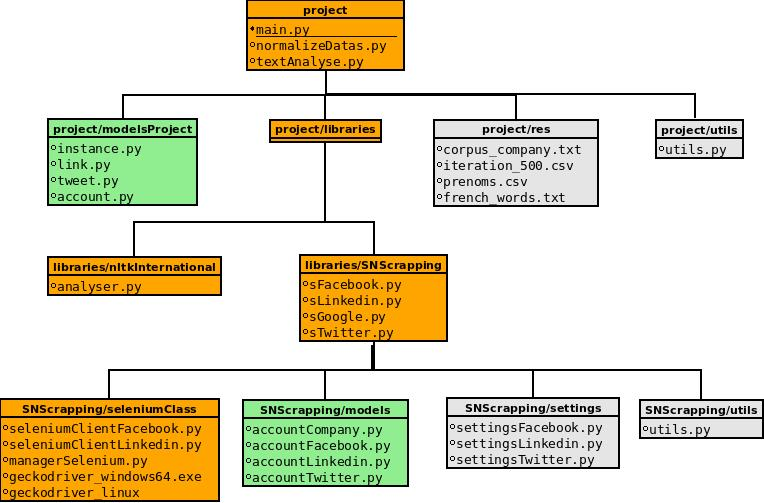
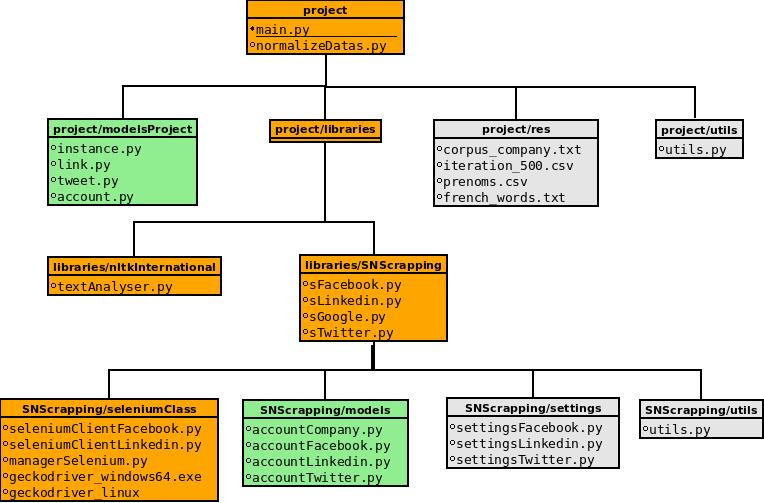
mv de textanalyser dans nltkInternational + images changement

Changed region(s): [[0.1505, 0.0895, 0.9031, 0.2087], [0.0602, 0.5368, 0.2408, 0.5964], [0.2709, 0.8052, 0.301, 1.0]]

diff --git a/project/main.py b/project/main.py
@@ -15,7 +15,7 @@ from libraries import sLinkedin
 from libraries import sFacebook
 from libraries.SNScrapping.seleniumClass.managerSelenium import *
 from libraries.SNScrapping.models.accountLinkedin import *
-from textAnalyser import *
+from libraries.nltkInternational import textAnalyser
 from utils.utils import *
 
 """ Search for people and indeterminate tweets """
@@ -110,6 +110,7 @@ def instanceToCsv(analyser, inst, minCompany=0,minFacebook=0, minLinkedinWithout
 	if inst.tweet.typeAuthor=="COMPANY":
 		return instanceToCsvCompany(inst, minCompany)
 
+""" method to save the result """
 def instanceToCsvPerson(analyser, inst, minCompany,minFacebook, minLinkedinWithoutPair, minLinkedinWithPair, minMatchFacebookLinkedin):
 	rows = []
 
@@ -178,8 +179,7 @@ def instanceToCsvPerson(analyser, inst, minCompany,minFacebook, minLinkedinWitho
 
 	return rows
 
-
-
+""" method to save the result """
 def formLine(inst, accountUrl, accountUrl2, companyPos, companyName, companyDomain, companyUrl, accountsLinkedValue, companyValue):
 	tid = inst.tweet.tweet_id
 	uid = inst.tweet.user_id
@@ -193,7 +193,7 @@ def formLine(inst, accountUrl, accountUrl2, companyPos, companyName, companyDoma
 	return (tid, uid, pert, tauth, e(name), e(screename), e(text), e(location), e(desc), 
 		accountUrl, accountUrl2, e(companyPos), e(companyName), e(companyDomain), companyUrl, accountsLinkedValue, companyValue)
 
-
+""" method to save the result """
 def instanceToCsvCompany(inst, minCompany):
 	rows = []
 	"""print Facebook company accounts with a minimum value of matching with the tweet	"""
@@ -208,7 +208,7 @@ def instanceToCsvCompany(inst, minCompany):
 
 	return rows
 
-""" method of step 5: show only pertinent datas """
+""" show result in company list in a specified instance """
 def show_result_company(inst, minCompany=0):
 
 	"""print Facebook company accounts with a minimum value of matching with the tweet	"""
@@ -223,7 +223,7 @@ def show_result_company(inst, minCompany=0):
 		if val.valueT >= minCompany:
 			print(val.account.toJson()+"[valueT]"+str(val.valueT))
 
-""" method of step 5: show only pertinent datas """
+""" show result in person list in a specified instance  """
 def show_result_person(inst, minFacebook=0, minLinkedinWithoutPair = 0, minLinkedinWithPair = 0, minMatchFacebookLinkedin = 0):
 	#Name person
 	print("["+inst.tweet.userFirstname +" "+inst.tweet.userSurname+"]")
@@ -438,7 +438,6 @@ def searchPersonLinkedin(tweet, inst, searcher, analyser):
 			inst.addAccountLinkedinPerson(tLink.link, account, valueT=value)
 		except ValueError as e:
 			print(str(e))
-	
 
 """ method of step 3+4 : matching account/facebook and return a value with the degree of matching"""
 def matchCompteFacebookPersonTweet(tweet, account, analyser):
@@ -527,7 +526,7 @@ if __name__ == '__main__':
 	#searcherFacebook = sFacebook.SearcherFacebook_Selenium(managerFacebook)
 
 	""" Instanciate corpus syntaxical matching class """
-	analyser = TextAnalyser()
+	analyser = textAnalyser.TextAnalyser()
 
 	instances = []
 

diff --git a/project/libraries/nltkInternational/textAnalyser.py b/project/libraries/nltkInternational/textAnalyser.py
@@ -8,6 +8,7 @@ import re
 import sys
 from nltk.corpus import stopwords        
 from nltk.tag import pos_tag
+
 """
 nltk.download('maxent_ne_chunker')
 nltk.download('averaged_perceptron_tagger')
@@ -238,84 +239,3 @@ class TextAnalyser:
 		if doublon==True:
 			return self.getByTag(liste_texte, "VB")
 		return self.getByTag(liste_texte, "VB", doublon=doublon)
-
-# test de la class TextAnalyser
-if __name__ == '__main__':
-
-	#instanciation de fichier csv
-	fname = "iteration_500.csv"
-	file = open(fname, "rt")
-
-	fname3 = "prenoms.csv"
-	file3 = open(fname3, "rt")
-
-	try:
-		#connection aux fichiers csv.
-		reader = csv.DictReader(file, delimiter=',')
-		reader3 = csv.DictReader(file3, delimiter=',')
-
-		#on transforme les prenoms en une liste sans capital
-		liste = []
-		for row in reader3:
-			liste.append(row.get('prenom').lower())
-
-		#on cree une liste de mots souvent present dans une compagnie
-		corpus_compagnie = ['news', 'consulting', 'inc', 'investing', 'corp', 'talk', 'energy', 'communications']
-
-		#instanciation de la liste des descriptions a analyser
-		descriptions = []
-
-		#pour tous les elements trouves dans le csv
-		for row in reader:
-
-			#si l'element est pertinent
-			if 'VRAI' in row.get('Pertinent'):
-
-				#on ne continue pas si l'element est une compagnie ou une organisation
-				continu = True
-				for companyWord in corpus_compagnie:
-					if companyWord in row.get('user_name').lower():
-						continu = False
-
-				#on continue sinon
-				if continu:
-
-					# on separe tous les elements composant le champ nom
-					for val in row.get('user_name').split(' '):
-
-						# si l'element est un prenom et donc une personne on continu
-						if val.lower() in liste:
-
-							# si la description est nulle, on ne peut pas continuer
-							if not "null" == row.get('user_description'):
-								descriptions.append(row.get('user_description'))
-
-		#Test des methodes de categorisation de mots
-		analyser = TextAnalyser()
-		resultat = analyser.getNomsCommunsBySentence(descriptions)
-		resultat2 = analyser.mostCommunsNounsFromTextes(descriptions, 10)
-		resultat3 = analyser.mostCommunsVerbsFromTextes(descriptions, 10)
-		for res in resultat:
-			for val in res:
-				print(val)
-			print("~~~~~~~~~~~~~~~~~~~~~~~~~~~~~~~~~~~~~~~~~~~~~~~~~~~~~~~~~~~~~~")
-
-		for res in resultat2:                
-			print(res)
-		print("~~~~~~~~~~~~~~~~~~~~~~~~~~~~~~~~~~~~~~~~~~~~~~~~~~~~~~~~~~~~~~")
-
-		for res in resultat3:                
-			print(res)
-		print("~~~~~~~~~~~~~~~~~~~~~~~~~~~~~~~~~~~~~~~~~~~~~~~~~~~~~~~~~~~~~~")
-
-		texte1 = "il etait une fois dans une grande maison"
-		texte2 = "il fut une grande maison"
-
-		#Test des methodes de matchings
-		resultat = analyser.getMatchingNouns(texte1, texte2)
-		for val in resultat:
-			print(val)
-		
-	finally:
-		file.close()
-		file3.close()

diff --git a/project/libraries/__init__.py b/project/libraries/__init__.py
@@ -1,4 +1,4 @@
 from __future__ import absolute_import
 from . import SNScrapping
 from .SNScrapping import sFacebook, sLinkedin, sGoogle
-from .nltkInternational import nltkInternational
+from .nltkInternational import textAnalyser
